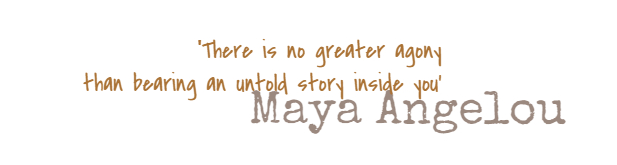
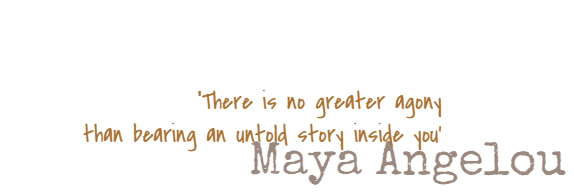
changing arrangement
image settings changed

Changed region(s): [[0.1185, 0.4242, 1.0, 0.9697], [0.2962, 0.2424, 0.7404, 0.4242]]

diff --git a/submit.html b/submit.html
@@ -16,44 +16,20 @@
 </head>
 <body>
 
-   <div class="container" id="sign in">
-              <form action="/action_page.php">
-              <legend>Sign in</legend>
-        <form>
-          User name:<br>
-          <input type="text" name="username"><br>
-          User password:<br>
-          <input type="password" name="psw">
-        </form>
 
-    </div>
-
-
-    <div>
-          <form action="/action_page.php">
-          <legend>Personal information:</legend>
-            First name:<br>
-          <input type="text" name="firstname"><br>
-            Last name:<br>
-          <input type="text" name="lastname">
-          <br> <br>
-
-
-          <textarea name="message" rows="10" cols="30">
-            Write your story here
-          </textarea>
-
-    <input type="submit" value="Submit">
-        </form>
-
-
+      <div class="row justify-content-center">
+        <iframe src="https://docs.google.com/forms/d/e/1FAIpQLSf0nj2K8d2yhiFk2_z9ngbjJdjfcw7oQgBJDdquTy00bsj1_Q/viewform?embedded=true" width="440" height="600" frameborder="0" marginheight="0" marginwidth="0">Loading…</iframe>
       </div>
 
-
-      <div class="file-upload-wrapper">
+      <!-- <div class="file-upload-wrapper">
         <input type="file" id="input-file-now" class="file-upload" />
       </div>
+ -->
 
+
+      <div class="row justify-content-center">
+      <a class="btn btn-danger" href="https://forms.gle/7ofzhLmzuoACBP9m6" role="button">Upload file here</a>
+      </div>
 
   <div class="container" id="SM">
     <a target="_blank" title="follow me on Twitter" href="https://twitter.com/KeeleUniversity"><img alt="follow me on Twitter" src="https://c866088.ssl.cf3.rackcdn.com/assets/twitter30x30.png" border=0></a>

diff --git a/contact.html b/contact.html
@@ -14,29 +14,13 @@
 </head>
 <body>
 
+<div class="row justify-content-center">
+  <iframe src="https://docs.google.com/forms/d/e/1FAIpQLSfadae8s6cIKUQsxCXbbbpWzrJqlCSIhma5u3IzRlzuy37FIg/viewform?embedded=true" width="440" height="600" frameborder="0" marginheight="0" marginwidth="0">Loading…</iframe>
+</div>
 
-
-
-
-  <h1> Contact </h1>
-  <div class="container">
-    <form action="action_page.php">
-
-      <label for="fname">First Name</label>
-      <input type="text" id="fname" name="firstname" placeholder="Your name..">
-
-      <label for="lname">Last Name</label>
-      <input type="text" id="lname" name="lastname" placeholder="Your last name..">
-
-      <label for="subject">Subject</label>
-      <textarea id="subject" name="subject" placeholder="Write something.." style="height:200px"></textarea>
-
-      <input type="submit" value="Submit">
-
-    </form>
-
-    </div class="containter">
-
+<br>
+<br>
+<br>
 
 
 

diff --git a/gallary.html b/gallary.html
@@ -1,0 +1,22 @@
+<!doctype>
+<html>
+<head>
+  <title> Creative Guild </title>
+    <link rel="stylesheet" type="text/css" href="css/styles.css">
+
+    <link rel="stylesheet"
+  href="https://stackpath.bootstrapcdn.com/bootstrap/4.1.3/css/bootstrap.min.css" crossorigin="anonymous">
+  <link rel="stylesheet" type="text/css" href="css/styles.css">
+  <script
+  src="https://code.jquery.com/jquery-3.4.1.min.js"
+  integrity="sha256-CSXorXvZcTkaix6Yvo6HppcZGetbYMGWSFlBw8HfCJo="
+  crossorigin="anonymous"></script>
+</head>
+<body>
+
+
+
+  <script src="js/script.js"></script>
+
+</body>
+</html>

diff --git a/index.html b/index.html
@@ -25,12 +25,19 @@ crossorigin="anonymous"></script>
   <div class="col-sm-4">
     <img src="tl.jpg" id="title" alt="Creative Guild" style="width:100%">
   </div>
-  <div class="row justify-content-around"
+
+  <br>
+  <br>
+  <br>
+  <br>
+  <br>
+  <br>
+
+  <div class="row"
   <div class="col-8">
     <img src="writers quote.jpeg" id="Q" alt="Writers quotes" style="width:100%">
   </div>
 </div>
-
 
 <br>
 <br>
